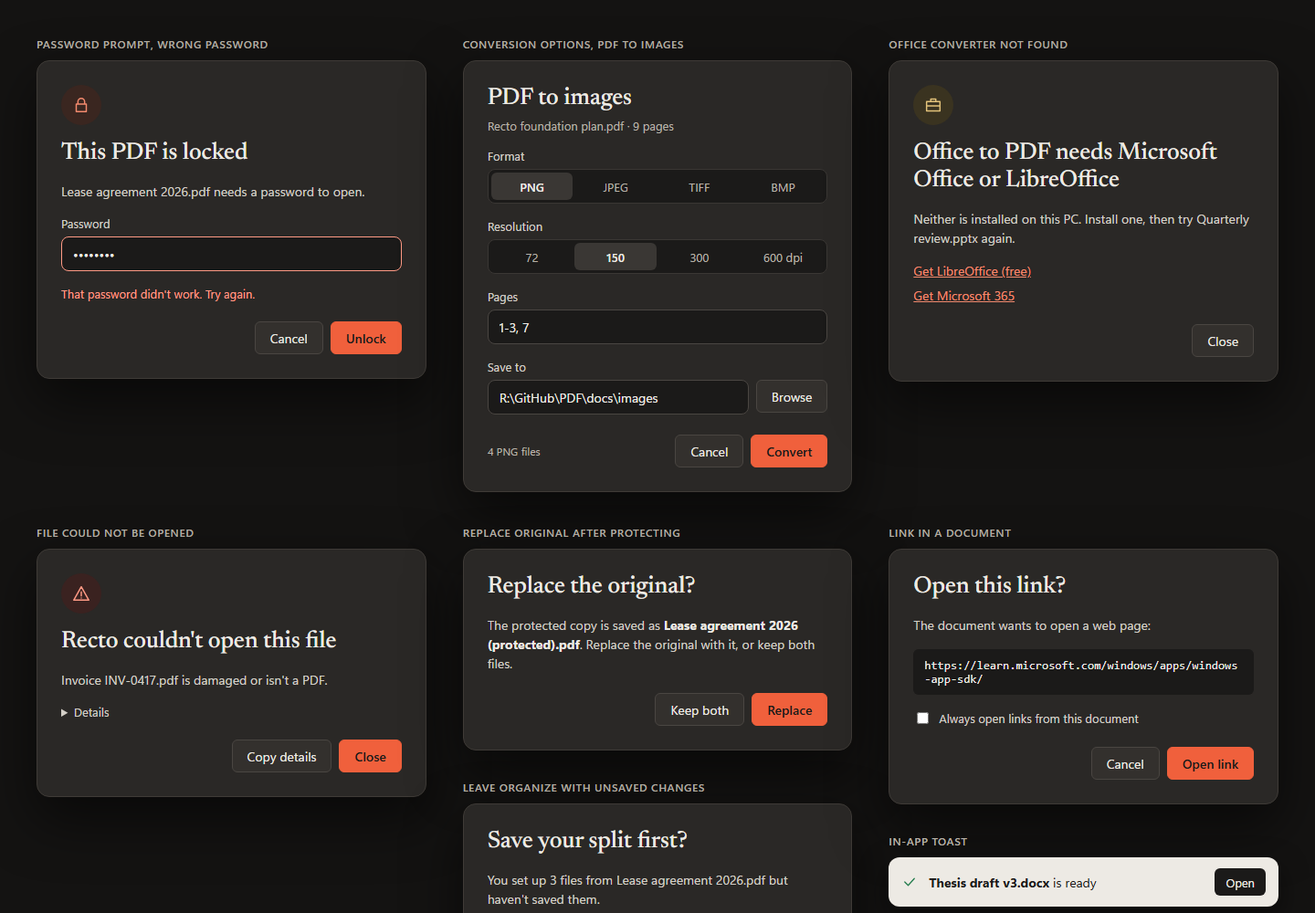
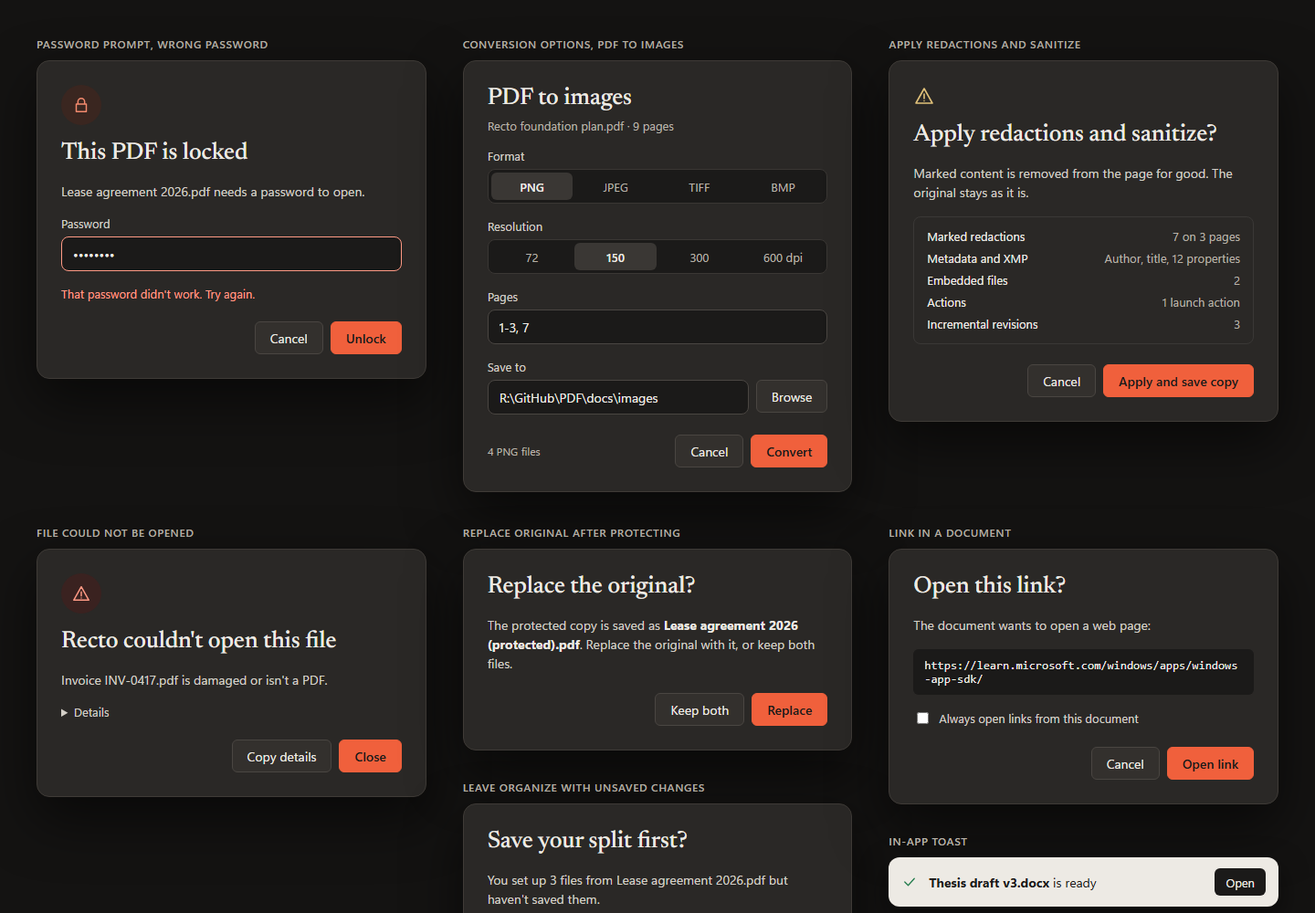
design: retire the Office and LibreOffice converter surfaces from the A, B and C boards
D06 T05 §28. The install dialogs become SPEC 9.9's Apply redactions and sanitize confirm; the converter setting becomes SPEC 9.7's Default Office to PDF page setup; the design check refuses Office or LibreOffice named as a converter dependency.

python -m unittest tests.scripts.test_engine_dependency_policy -> Ran 4 tests, OK

Changed region(s): [[0.6875, 0.093, 0.9375, 0.372], [0.6562, 0.372, 0.9688, 0.465], [0.6875, 0.031, 0.8125, 0.062]]

diff --git a/design/mockups/html/A-Dialogs.html b/design/mockups/html/A-Dialogs.html
@@ -61,19 +61,8 @@ a{color:#2459D6}a:hover{color:#1A47B0}
   </div>
 
   <div style="display:flex;flex-direction:column;gap:10px">
-    <span class="lbl">OFFICE CONVERTER NOT FOUND</span>
-    <div class="dlg" role="dialog" aria-label="Office converter needed">
-      <div class="bd">
-        <div style="width:40px;height:40px;border-radius:20px;background:#FFF4CE;color:#8A5300;display:flex;align-items:center;justify-content:center"><svg class="ic" viewBox="0 0 24 24" style="width:20px;height:20px" aria-hidden="true"><path d="M4 8h16v11H4zM9 8V5h6v3M4 13h16"></path></svg></div>
-        <h2 class="t">Office to PDF needs Microsoft Office or LibreOffice</h2>
-        <p class="p">Neither is installed on this PC. Recto uses one of them to read Word, Excel and PowerPoint files. Install either one, then try again.</p>
-        <div style="display:flex;flex-direction:column;gap:8px">
-          <a href="https://www.libreoffice.org/" style="font-size:14px">Get LibreOffice (free)</a>
-          <a href="https://www.microsoft.com/microsoft-365" style="font-size:14px">Get Microsoft 365</a>
-        </div>
-      </div>
-      <div class="ft" style="grid-template-columns:minmax(0,1fr)"><button class="btn">Close</button></div>
-    </div>
+    <span class="lbl">APPLY REDACTIONS AND SANITIZE</span>
+    <div class="dlg" role="dialog" aria-label="Apply redactions and sanitize"><div class="bd"><svg class="ic" viewBox="0 0 24 24" style="width:24px;height:24px;color:#8A5300" aria-hidden="true"><path d="M12 4l9 16H3zM12 10v5M12 17.5v.01"></path></svg><h2 class="t">Apply redactions and sanitize?</h2><p class="p">Marked content is removed from the page for good. The original stays as it is.</p><div aria-label="What will be removed" style="display:flex;flex-direction:column;gap:6px;width:100%;box-sizing:border-box;padding:12px 14px;border-radius:8px;border:1px solid #E5E5E5;color:inherit;text-align:left;font-size:13px;line-height:18px"><span style="display:flex;justify-content:space-between;gap:12px"><span>Marked redactions</span><span class="cap" style="font-size:13px">7 on 3 pages</span></span><span style="display:flex;justify-content:space-between;gap:12px"><span>Metadata and XMP</span><span class="cap" style="font-size:13px">Author, title, 12 properties</span></span><span style="display:flex;justify-content:space-between;gap:12px"><span>Embedded files</span><span class="cap" style="font-size:13px">2</span></span><span style="display:flex;justify-content:space-between;gap:12px"><span>Actions</span><span class="cap" style="font-size:13px">1 launch action</span></span><span style="display:flex;justify-content:space-between;gap:12px"><span>Incremental revisions</span><span class="cap" style="font-size:13px">3</span></span></div></div><div class="ft"><button class="btn p2">Apply and save copy</button><button class="btn">Cancel</button></div></div>
   </div>
 
   <div style="display:flex;flex-direction:column;gap:10px">

diff --git a/design/mockups/source/A-Dialogs.dc.html b/design/mockups/source/A-Dialogs.dc.html
@@ -65,19 +65,8 @@ a{color:#2459D6}a:hover{color:#1A47B0}
   </div>
 
   <div style="display:flex;flex-direction:column;gap:10px">
-    <span class="lbl">OFFICE CONVERTER NOT FOUND</span>
-    <div class="dlg" role="dialog" aria-label="Office converter needed">
-      <div class="bd">
-        <div style="width:40px;height:40px;border-radius:20px;background:#FFF4CE;color:#8A5300;display:flex;align-items:center;justify-content:center"><svg class="ic" viewBox="0 0 24 24" style="width:20px;height:20px" aria-hidden="true"><path d="{{i.office}}"></path></svg></div>
-        <h2 class="t">Office to PDF needs Microsoft Office or LibreOffice</h2>
-        <p class="p">Neither is installed on this PC. Recto uses one of them to read Word, Excel and PowerPoint files. Install either one, then try again.</p>
-        <div style="display:flex;flex-direction:column;gap:8px">
-          <a href="https://www.libreoffice.org/" style="font-size:14px">Get LibreOffice (free)</a>
-          <a href="https://www.microsoft.com/microsoft-365" style="font-size:14px">Get Microsoft 365</a>
-        </div>
-      </div>
-      <div class="ft" style="grid-template-columns:minmax(0,1fr)"><button class="btn">Close</button></div>
-    </div>
+    <span class="lbl">APPLY REDACTIONS AND SANITIZE</span>
+    <div class="dlg" role="dialog" aria-label="Apply redactions and sanitize"><div class="bd"><svg class="ic" viewBox="0 0 24 24" style="width:24px;height:24px;color:#8A5300" aria-hidden="true"><path d="{{i.warn}}"></path></svg><h2 class="t">Apply redactions and sanitize?</h2><p class="p">Marked content is removed from the page for good. The original stays as it is.</p><div aria-label="What will be removed" style="display:flex;flex-direction:column;gap:6px;width:100%;box-sizing:border-box;padding:12px 14px;border-radius:8px;border:1px solid #E5E5E5;color:inherit;text-align:left;font-size:13px;line-height:18px"><span style="display:flex;justify-content:space-between;gap:12px"><span>Marked redactions</span><span class="cap" style="font-size:13px">7 on 3 pages</span></span><span style="display:flex;justify-content:space-between;gap:12px"><span>Metadata and XMP</span><span class="cap" style="font-size:13px">Author, title, 12 properties</span></span><span style="display:flex;justify-content:space-between;gap:12px"><span>Embedded files</span><span class="cap" style="font-size:13px">2</span></span><span style="display:flex;justify-content:space-between;gap:12px"><span>Actions</span><span class="cap" style="font-size:13px">1 launch action</span></span><span style="display:flex;justify-content:space-between;gap:12px"><span>Incremental revisions</span><span class="cap" style="font-size:13px">3</span></span></div></div><div class="ft"><button class="btn p2">Apply and save copy</button><button class="btn">Cancel</button></div></div>
   </div>
 
   <div style="display:flex;flex-direction:column;gap:10px">

diff --git a/design/mockups/html/C-Dialogs.html b/design/mockups/html/C-Dialogs.html
@@ -74,13 +74,8 @@ kbd{font-family:inherit;font-size:11px;padding:2px 6px;border-radius:5px;backgro
       </div>
     </div>
     <div style="display:flex;flex-direction:column;gap:10px">
-      <span class="lbl">OFFICE CONVERTER NOT FOUND</span>
-      <div class="dlg ctr" role="dialog" aria-label="Office converter needed">
-        <div class="ico" style="background:#FFF4D6;color:#8A5300"><svg class="ic" viewBox="0 0 24 24" style="width:24px;height:24px" aria-hidden="true"><path d="M4 8h16v11H4zM9 8V5h6v3M4 13h16"></path></svg></div>
-        <h2 class="t">Install Office or LibreOffice</h2>
-        <p class="p">Recto needs one of them to turn Word, Excel and PowerPoint files into PDFs. Neither is on this PC.</p>
-        <div class="stk"><a class="btn p2" href="https://www.libreoffice.org/" style="text-decoration:none">Get LibreOffice (free)</a><a class="btn" href="https://www.microsoft.com/microsoft-365" style="text-decoration:none">Get Microsoft 365</a><button class="btn gh">Not now</button></div>
-      </div>
+      <span class="lbl">APPLY REDACTIONS AND SANITIZE</span>
+      <div class="dlg ctr" role="dialog" aria-label="Apply redactions and sanitize"><svg class="ic" viewBox="0 0 24 24" style="width:24px;height:24px;color:#8A5300" aria-hidden="true"><path d="M12 4l9 16H3zM12 10v5M12 17.5v.01"></path></svg><h2 class="t">Apply redactions and sanitize?</h2><p class="p">Marked content is removed from the page for good. The original stays as it is.</p><div aria-label="What will be removed" style="display:flex;flex-direction:column;gap:6px;width:100%;box-sizing:border-box;padding:12px 14px;border-radius:8px;border:1px solid #E2E0EC;color:inherit;text-align:left;font-size:13px;line-height:18px"><span style="display:flex;justify-content:space-between;gap:12px"><span>Marked redactions</span><span class="cap" style="font-size:13px">7 on 3 pages</span></span><span style="display:flex;justify-content:space-between;gap:12px"><span>Metadata and XMP</span><span class="cap" style="font-size:13px">Author, title, 12 properties</span></span><span style="display:flex;justify-content:space-between;gap:12px"><span>Embedded files</span><span class="cap" style="font-size:13px">2</span></span><span style="display:flex;justify-content:space-between;gap:12px"><span>Actions</span><span class="cap" style="font-size:13px">1 launch action</span></span><span style="display:flex;justify-content:space-between;gap:12px"><span>Incremental revisions</span><span class="cap" style="font-size:13px">3</span></span></div><div class="stk"><button class="btn p2">Apply and save copy</button><button class="btn gh">Cancel</button></div></div>
     </div>
   </div>
 

diff --git a/design/mockups/html/B-Dialogs.html b/design/mockups/html/B-Dialogs.html
@@ -54,14 +54,8 @@ a{color:#F48A6E}a:hover{color:#F7A890}
   </div>
 
   <div style="display:flex;flex-direction:column;gap:10px">
-    <span class="lbl">OFFICE CONVERTER NOT FOUND</span>
-    <div class="dlg" role="dialog" aria-label="Office converter needed">
-      <div class="ico" style="background:#3A3320;color:#E2C27A"><svg class="ic" viewBox="0 0 24 24" style="width:22px;height:22px" aria-hidden="true"><path d="M4 8h16v11H4zM9 8V5h6v3M4 13h16"></path></svg></div>
-      <h2 class="t">Office to PDF needs Microsoft Office or LibreOffice</h2>
-      <p class="p">Neither is installed on this PC. Install one, then try Quarterly review.pptx again.</p>
-      <div style="display:flex;flex-direction:column;gap:8px;font-size:14px"><a href="https://www.libreoffice.org/">Get LibreOffice (free)</a><a href="https://www.microsoft.com/microsoft-365">Get Microsoft 365</a></div>
-      <div class="ft"><button class="btn">Close</button></div>
-    </div>
+    <span class="lbl">APPLY REDACTIONS AND SANITIZE</span>
+    <div class="dlg" role="dialog" aria-label="Apply redactions and sanitize"><svg class="ic" viewBox="0 0 24 24" style="width:24px;height:24px;color:#E2C27A" aria-hidden="true"><path d="M12 4l9 16H3zM12 10v5M12 17.5v.01"></path></svg><h2 class="t">Apply redactions and sanitize?</h2><p class="p">Marked content is removed from the page for good. The original stays as it is.</p><div aria-label="What will be removed" style="display:flex;flex-direction:column;gap:6px;width:100%;box-sizing:border-box;padding:12px 14px;border-radius:8px;border:1px solid #3A3836;color:inherit;text-align:left;font-size:13px;line-height:18px"><span style="display:flex;justify-content:space-between;gap:12px"><span>Marked redactions</span><span class="cap" style="font-size:13px">7 on 3 pages</span></span><span style="display:flex;justify-content:space-between;gap:12px"><span>Metadata and XMP</span><span class="cap" style="font-size:13px">Author, title, 12 properties</span></span><span style="display:flex;justify-content:space-between;gap:12px"><span>Embedded files</span><span class="cap" style="font-size:13px">2</span></span><span style="display:flex;justify-content:space-between;gap:12px"><span>Actions</span><span class="cap" style="font-size:13px">1 launch action</span></span><span style="display:flex;justify-content:space-between;gap:12px"><span>Incremental revisions</span><span class="cap" style="font-size:13px">3</span></span></div><div class="ft"><button class="btn">Cancel</button><button class="btn p2">Apply and save copy</button></div></div>
   </div>
 
   <div style="display:flex;flex-direction:column;gap:10px">

diff --git a/design/mockups/source/C-Dialogs.dc.html b/design/mockups/source/C-Dialogs.dc.html
@@ -78,13 +78,8 @@ kbd{font-family:inherit;font-size:11px;padding:2px 6px;border-radius:5px;backgro
       </div>
     </div>
     <div style="display:flex;flex-direction:column;gap:10px">
-      <span class="lbl">OFFICE CONVERTER NOT FOUND</span>
-      <div class="dlg ctr" role="dialog" aria-label="Office converter needed">
-        <div class="ico" style="background:#FFF4D6;color:#8A5300"><svg class="ic" viewBox="0 0 24 24" style="width:24px;height:24px" aria-hidden="true"><path d="{{i.office}}"></path></svg></div>
-        <h2 class="t">Install Office or LibreOffice</h2>
-        <p class="p">Recto needs one of them to turn Word, Excel and PowerPoint files into PDFs. Neither is on this PC.</p>
-        <div class="stk"><a class="btn p2" href="https://www.libreoffice.org/" style="text-decoration:none">Get LibreOffice (free)</a><a class="btn" href="https://www.microsoft.com/microsoft-365" style="text-decoration:none">Get Microsoft 365</a><button class="btn gh">Not now</button></div>
-      </div>
+      <span class="lbl">APPLY REDACTIONS AND SANITIZE</span>
+      <div class="dlg ctr" role="dialog" aria-label="Apply redactions and sanitize"><svg class="ic" viewBox="0 0 24 24" style="width:24px;height:24px;color:#8A5300" aria-hidden="true"><path d="{{i.warn}}"></path></svg><h2 class="t">Apply redactions and sanitize?</h2><p class="p">Marked content is removed from the page for good. The original stays as it is.</p><div aria-label="What will be removed" style="display:flex;flex-direction:column;gap:6px;width:100%;box-sizing:border-box;padding:12px 14px;border-radius:8px;border:1px solid #E2E0EC;color:inherit;text-align:left;font-size:13px;line-height:18px"><span style="display:flex;justify-content:space-between;gap:12px"><span>Marked redactions</span><span class="cap" style="font-size:13px">7 on 3 pages</span></span><span style="display:flex;justify-content:space-between;gap:12px"><span>Metadata and XMP</span><span class="cap" style="font-size:13px">Author, title, 12 properties</span></span><span style="display:flex;justify-content:space-between;gap:12px"><span>Embedded files</span><span class="cap" style="font-size:13px">2</span></span><span style="display:flex;justify-content:space-between;gap:12px"><span>Actions</span><span class="cap" style="font-size:13px">1 launch action</span></span><span style="display:flex;justify-content:space-between;gap:12px"><span>Incremental revisions</span><span class="cap" style="font-size:13px">3</span></span></div><div class="stk"><button class="btn p2">Apply and save copy</button><button class="btn gh">Cancel</button></div></div>
     </div>
   </div>
 

diff --git a/design/mockups/source/B-Dialogs.dc.html b/design/mockups/source/B-Dialogs.dc.html
@@ -58,14 +58,8 @@ a{color:#F48A6E}a:hover{color:#F7A890}
   </div>
 
   <div style="display:flex;flex-direction:column;gap:10px">
-    <span class="lbl">OFFICE CONVERTER NOT FOUND</span>
-    <div class="dlg" role="dialog" aria-label="Office converter needed">
-      <div class="ico" style="background:#3A3320;color:#E2C27A"><svg class="ic" viewBox="0 0 24 24" style="width:22px;height:22px" aria-hidden="true"><path d="{{i.office}}"></path></svg></div>
-      <h2 class="t">Office to PDF needs Microsoft Office or LibreOffice</h2>
-      <p class="p">Neither is installed on this PC. Install one, then try Quarterly review.pptx again.</p>
-      <div style="display:flex;flex-direction:column;gap:8px;font-size:14px"><a href="https://www.libreoffice.org/">Get LibreOffice (free)</a><a href="https://www.microsoft.com/microsoft-365">Get Microsoft 365</a></div>
-      <div class="ft"><button class="btn">Close</button></div>
-    </div>
+    <span class="lbl">APPLY REDACTIONS AND SANITIZE</span>
+    <div class="dlg" role="dialog" aria-label="Apply redactions and sanitize"><svg class="ic" viewBox="0 0 24 24" style="width:24px;height:24px;color:#E2C27A" aria-hidden="true"><path d="{{i.warn}}"></path></svg><h2 class="t">Apply redactions and sanitize?</h2><p class="p">Marked content is removed from the page for good. The original stays as it is.</p><div aria-label="What will be removed" style="display:flex;flex-direction:column;gap:6px;width:100%;box-sizing:border-box;padding:12px 14px;border-radius:8px;border:1px solid #3A3836;color:inherit;text-align:left;font-size:13px;line-height:18px"><span style="display:flex;justify-content:space-between;gap:12px"><span>Marked redactions</span><span class="cap" style="font-size:13px">7 on 3 pages</span></span><span style="display:flex;justify-content:space-between;gap:12px"><span>Metadata and XMP</span><span class="cap" style="font-size:13px">Author, title, 12 properties</span></span><span style="display:flex;justify-content:space-between;gap:12px"><span>Embedded files</span><span class="cap" style="font-size:13px">2</span></span><span style="display:flex;justify-content:space-between;gap:12px"><span>Actions</span><span class="cap" style="font-size:13px">1 launch action</span></span><span style="display:flex;justify-content:space-between;gap:12px"><span>Incremental revisions</span><span class="cap" style="font-size:13px">3</span></span></div><div class="ft"><button class="btn">Cancel</button><button class="btn p2">Apply and save copy</button></div></div>
   </div>
 
   <div style="display:flex;flex-direction:column;gap:10px">

diff --git a/design/mockups/html/A-Settings.html b/design/mockups/html/A-Settings.html
@@ -70,7 +70,7 @@ a{color:#2459D6}a:hover{color:#1A47B0}
         </div>
         <div style="display:flex;flex-direction:column;gap:4px">
           <h2 class="sh">Converting</h2>
-          <div class="sc"><svg class="ic" viewBox="0 0 24 24" aria-hidden="true"><path d="M4 8h16v11H4zM9 8V5h6v3M4 13h16"></path></svg><span class="t"><b>Office to PDF converter</b><span class="cap">Found: Microsoft Office. LibreOffice not installed.</span></span><button class="btn dd">Automatic<svg class="ic" viewBox="0 0 24 24" style="width:12px" aria-hidden="true"><path d="M6 9l6 6 6-6"></path></svg></button></div>
+          <div class="sc"><svg class="ic" viewBox="0 0 24 24" aria-hidden="true"><path d="M4 8h16v11H4zM9 8V5h6v3M4 13h16"></path></svg><span class="t"><b>Default Office to PDF page setup</b><span class="cap">Used when converting Word, Excel and PowerPoint files</span></span><button class="btn dd">Match original document<svg class="ic" viewBox="0 0 24 24" style="width:12px" aria-hidden="true"><path d="M6 9l6 6 6-6"></path></svg></button></div>
           <div class="sc"><svg class="ic" viewBox="0 0 24 24" aria-hidden="true"><path d="M3 7a2 2 0 0 1 2-2h4l2 2h8a2 2 0 0 1 2 2v8a2 2 0 0 1-2 2H5a2 2 0 0 1-2-2z"></path></svg><span class="t"><b>Save converted files to</b><span class="cap">Same folder as the original</span></span><button class="btn">Change folder</button></div>
           <div class="sc"><svg class="ic" viewBox="0 0 24 24" aria-hidden="true"><path d="M4 5h16v14H4zM4 16l5-5 4 4 3-3 4 4M15 9h.01"></path></svg><span class="t"><b>Default image resolution</b><span class="cap">For PDF to images</span></span><button class="btn dd">150 dpi<svg class="ic" viewBox="0 0 24 24" style="width:12px" aria-hidden="true"><path d="M6 9l6 6 6-6"></path></svg></button></div>
           <h2 class="sh" style="margin-top:14px">Performance</h2>

diff --git a/design/mockups/source/A-Settings.dc.html b/design/mockups/source/A-Settings.dc.html
@@ -74,7 +74,7 @@ a{color:#2459D6}a:hover{color:#1A47B0}
         </div>
         <div style="display:flex;flex-direction:column;gap:4px">
           <h2 class="sh">Converting</h2>
-          <div class="sc"><svg class="ic" viewBox="0 0 24 24" aria-hidden="true"><path d="{{i.office}}"></path></svg><span class="t"><b>Office to PDF converter</b><span class="cap">Found: Microsoft Office. LibreOffice not installed.</span></span><button class="btn dd">Automatic<svg class="ic" viewBox="0 0 24 24" style="width:12px" aria-hidden="true"><path d="{{i.cd}}"></path></svg></button></div>
+          <div class="sc"><svg class="ic" viewBox="0 0 24 24" aria-hidden="true"><path d="{{i.office}}"></path></svg><span class="t"><b>Default Office to PDF page setup</b><span class="cap">Used when converting Word, Excel and PowerPoint files</span></span><button class="btn dd">Match original document<svg class="ic" viewBox="0 0 24 24" style="width:12px" aria-hidden="true"><path d="{{i.cd}}"></path></svg></button></div>
           <div class="sc"><svg class="ic" viewBox="0 0 24 24" aria-hidden="true"><path d="{{i.folder}}"></path></svg><span class="t"><b>Save converted files to</b><span class="cap">Same folder as the original</span></span><button class="btn">Change folder</button></div>
           <div class="sc"><svg class="ic" viewBox="0 0 24 24" aria-hidden="true"><path d="{{i.img}}"></path></svg><span class="t"><b>Default image resolution</b><span class="cap">For PDF to images</span></span><button class="btn dd">150 dpi<svg class="ic" viewBox="0 0 24 24" style="width:12px" aria-hidden="true"><path d="{{i.cd}}"></path></svg></button></div>
           <h2 class="sh" style="margin-top:14px">Performance</h2>

diff --git a/design/mockups/html/C-Settings.html b/design/mockups/html/C-Settings.html
@@ -61,7 +61,7 @@ a{color:#4A3FD0}a:hover{color:#3529A8}
       </div>
       <div class="gh">CONVERTING</div>
       <div class="grp">
-        <div class="r"><span class="t"><b>Office to PDF converter</b><span class="cap">Found Microsoft Office. LibreOffice isn't installed.</span></span><button class="dd">Automatic<svg class="ic" viewBox="0 0 24 24" style="width:12px" aria-hidden="true"><path d="M6 9l6 6 6-6"></path></svg></button></div>
+        <div class="r"><span class="t"><b>Default Office to PDF page setup</b><span class="cap">Used when converting Word, Excel and PowerPoint files</span></span><button class="dd">Match original document<svg class="ic" viewBox="0 0 24 24" style="width:12px" aria-hidden="true"><path d="M6 9l6 6 6-6"></path></svg></button></div>
         <div class="r"><span class="t"><b>Save converted files</b></span><button class="dd">Next to the original<svg class="ic" viewBox="0 0 24 24" style="width:12px" aria-hidden="true"><path d="M6 9l6 6 6-6"></path></svg></button></div>
       </div>
       <div class="gh">PERFORMANCE AND PRIVACY</div>

diff --git a/design/mockups/source/C-Settings.dc.html b/design/mockups/source/C-Settings.dc.html
@@ -65,7 +65,7 @@ a{color:#4A3FD0}a:hover{color:#3529A8}
       </div>
       <div class="gh">CONVERTING</div>
       <div class="grp">
-        <div class="r"><span class="t"><b>Office to PDF converter</b><span class="cap">Found Microsoft Office. LibreOffice isn't installed.</span></span><button class="dd">Automatic<svg class="ic" viewBox="0 0 24 24" style="width:12px" aria-hidden="true"><path d="{{i.cd}}"></path></svg></button></div>
+        <div class="r"><span class="t"><b>Default Office to PDF page setup</b><span class="cap">Used when converting Word, Excel and PowerPoint files</span></span><button class="dd">Match original document<svg class="ic" viewBox="0 0 24 24" style="width:12px" aria-hidden="true"><path d="{{i.cd}}"></path></svg></button></div>
         <div class="r"><span class="t"><b>Save converted files</b></span><button class="dd">Next to the original<svg class="ic" viewBox="0 0 24 24" style="width:12px" aria-hidden="true"><path d="{{i.cd}}"></path></svg></button></div>
       </div>
       <div class="gh">PERFORMANCE AND PRIVACY</div>

diff --git a/tests/scripts/test_engine_dependency_policy.py b/tests/scripts/test_engine_dependency_policy.py
@@ -80,7 +80,7 @@ class EngineDependencyPolicyTest(unittest.TestCase):
                 for text in texts:
                     self.assertIsNone(MUPDF.search(text))
 
-    def test_design_boards_name_no_mupdf_or_agpl(self):
+    def test_design_boards_name_no_mupdf_agpl_or_office_dependency(self):
         # The mockup sources and their rendered HTML describe Recto: its engine is recto-pdf (D3) and its licence
         # GPL-3.0-or-later (D2), so no board may present MuPDF, its components or AGPL as Recto's (D06 T05 §25).
         files = [name for name in tracked("design/mockups") if name.endswith((".html", ".json"))]
@@ -92,6 +92,10 @@ class EngineDependencyPolicyTest(unittest.TestCase):
                 # The licence by acronym or by name, in any case (agpl-3.0, GNU Affero General Public License).
                 self.assertIsNone(re.search(r"agpl|affero", text, re.IGNORECASE))
                 self.assertIsNone(re.search(r"\bfz_", text, re.IGNORECASE))  # MuPDF's API prefix, whatever follows it
+                # Recto converts Office files with its own engines (D5, D7, D10): no board may present Office or
+                # LibreOffice as a converter Recto needs (D06 T05 §28).
+                self.assertIsNone(re.search(r"libreoffice|office com|microsoft (word|excel|powerpoint|office)"
+                                            r"|through (word|excel|powerpoint|office)", text, re.IGNORECASE))
 
     @unittest.skipUnless(sys.platform == "win32", "the C++ build and MSBuild are Windows-only (foundation plan D15)")
     def test_every_module_compiles_as_cpp20_with_warnings_as_errors(self):

diff --git a/todo/06-quality/TODO-05-stamp-audits.md b/todo/06-quality/TODO-05-stamp-audits.md
@@ -719,6 +719,8 @@ The audit of `D00 T03 §5` (`docs/reviews/06-quality/audit-d00-t03-s5.md`, D06 T
 
 ## 28. Retired Office and LibreOffice converter surfaces removed from the A, B and C boards
 
+> **Started:** 2026-10-22T11:40:00Z
+
 While removing MuPDF and AGPL text from the older mockup boards (`D06 T05 §25`), the A, B and C boards were found to still show the retired Office and LibreOffice dependency as whole surfaces: an "Office to PDF needs Microsoft Office or LibreOffice" dialog (`A-Dialogs`, `B-Dialogs`, `C-Dialogs`, with "Get LibreOffice" links) and an "Office to PDF converter" setting reporting which suite is installed (`A-Settings`, `C-Settings`). Recto converts Office files with its own built-in engines and has no Office or LibreOffice dependency (D5, D7, D10), so these surfaces describe a product that no longer exists. (`D06 T05 §25` already reworded the Office readiness banner and the waiting jobs on `A-Convert` and `B-Convert`; this section's grep covers every such phrasing so none returns.) Removing or replacing a dialog is a design choice the current `D-` boards and `design/SPEC.md` own, so it is its own section rather than a text swap. -> XREF: D06 T05 §25
 
 **Phase:** 0
@@ -730,10 +732,10 @@ While removing MuPDF and AGPL text from the older mockup boards (`D06 T05 §25`)
 1. Decide each surface against `design/SPEC.md` and the `D-` boards: drop the dialog and the converter setting, or replace them with what the SPEC shows for Office import today. Done when: the choice and its SPEC section are recorded in this section's findings file.
 2. Edit the boards and re-render them. Done when: `git grep -n -i -E "libreoffice|office com|microsoft (word|excel|powerpoint|office)|through (word|excel|powerpoint|office)" -- design/mockups` prints nothing.
 
-- [ ] Record, per surface, what `design/SPEC.md` and the `D-` boards show for Office import, and whether the old surface is dropped or replaced, in `docs/reviews/06-quality/D06-T05-s28.md`. Done when: each of the five boards has a recorded choice with its SPEC section.
-- [ ] Edit `design/mockups/source/[ABC]-Dialogs.dc.html` and `[AC]-Settings.dc.html` to that choice. Done when: `git grep -n -i -E "libreoffice|office com|microsoft (word|excel|powerpoint|office)|through (word|excel|powerpoint|office)" -- design/mockups/source` prints nothing.
-- [ ] Re-render those boards with `node design/tools/render-mockups.mjs --only <names>`. Done when: the same grep over `design/mockups/html` prints nothing and each board's PNG is newer than its source.
-- [ ] Extend `tests/scripts/test_engine_dependency_policy.py`'s design check to refuse Office or LibreOffice named as a converter dependency in `design/mockups/`. Done when: restoring one "Get LibreOffice" link makes the test fail.
+- [x] Record, per surface, what `design/SPEC.md` and the `D-` boards show for Office import, and whether the old surface is dropped or replaced, in `docs/reviews/06-quality/D06-T05-s28.md`. Done when: each of the five boards has a recorded choice with its SPEC section.
+- [x] Edit `design/mockups/source/[ABC]-Dialogs.dc.html` and `[AC]-Settings.dc.html` to that choice. Done when: `git grep -n -i -E "libreoffice|office com|microsoft (word|excel|powerpoint|office)|through (word|excel|powerpoint|office)" -- design/mockups/source` prints nothing.
+- [x] Re-render those boards with `node design/tools/render-mockups.mjs --only <names>`. Done when: the same grep over `design/mockups/html` prints nothing and each board's PNG is newer than its source.
+- [x] Extend `tests/scripts/test_engine_dependency_policy.py`'s design check to refuse Office or LibreOffice named as a converter dependency in `design/mockups/`. Done when: restoring one "Get LibreOffice" link makes the test fail.
 - [ ] Commit: `design: retire the Office and LibreOffice converter surfaces from the A, B and C boards`
 
 **Test checkpoint:** `python -m unittest tests.scripts.test_engine_dependency_policy` passes, and `git grep -n -i -E "libreoffice|office com|microsoft (word|excel|powerpoint|office)|through (word|excel|powerpoint|office)" -- design/mockups` prints nothing.
